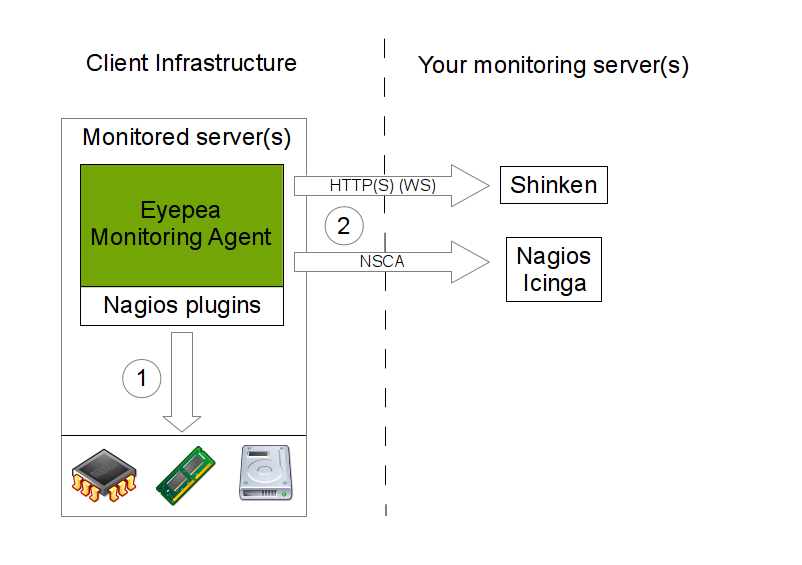
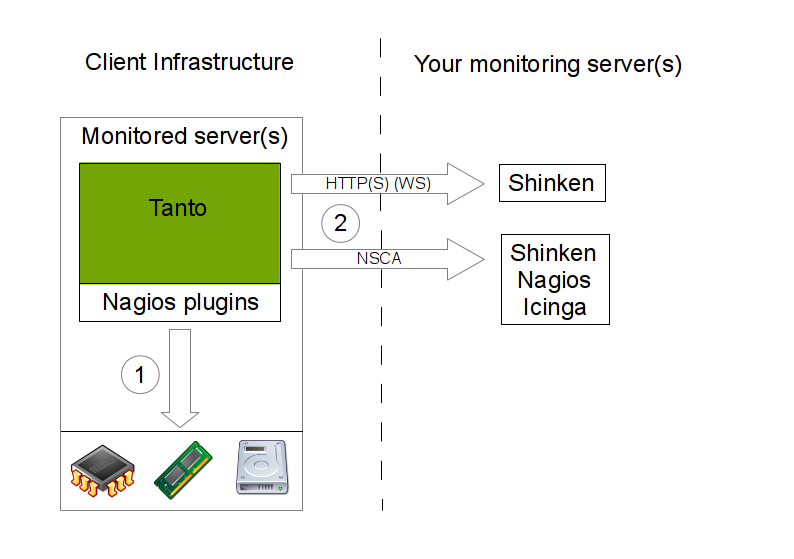
Rename eyepea_monitoring_agent to tanto

diff --git a/setup.py b/setup.py
@@ -4,37 +4,41 @@ __docformat__ = 'rst'
 
 import os
 from setuptools import setup, find_packages
+from sys import version_info
 
 long_description = open(os.path.join(os.path.dirname(__file__), 'README.rst')).read() + '\n\n' + open(os.path.join(os.path.dirname(__file__), 'HISTORY.rst')).read()
 
+install_requires=[
+    'configobj>=4.7.2',
+    'pynsca>=1.2',
+    'requests>=0.10.1',
+],
+# Python 2.6 and below requires argparse
+if version_info[:2] < (2, 7):
+    install_requires += ['argparse>=1.1']
+
 setup(
-    name='eyepea-monitoring-agent',
-    version='0.9',
+    name='tanto',
+    version='1.0',
     description='Takes monitoring data from Nagios-plugins to push with NSCA (Nagios or Icinga) or WS-Shinken.',
     long_description=long_description,
     author='Ludovic Gasc',
     author_email='ludovic.gasc@eyepea.eu',
-    url='https://github.com/Eyepea/eyepea_monitoring_agent',
+    url='https://github.com/Eyepea/tanto',
     packages=find_packages(),
-    scripts=['eyepea_monitoring_agent'],
+    scripts=['tanto'],
     include_package_data=True,
     zip_safe=False,
     platforms='UNIX',
     package_data={'monitoring_agent': ['configspecs/*.cfg']},
-    data_files=[('/etc/eyepea_monitoring_agent', ['etc/logging.ini',
-                                                  'etc/nagios_plugins.cfg',
-                                                  'etc/nsca.cfg',
-                                                  'etc/ws_shinken.cfg']),
-                ('/etc/cron.d', ['etc/cron.d/eyepea_monitoring_agent']),
-                ('/var/run/eyepea_monitoring_agent', ['etc/.placeholder']),
-                ('/var/lib/eyepea_monitoring_agent', ['etc/.placeholder']),],
+    data_files=[('/etc/tanto', ['etc/tanto/logging.ini',
+                                                  'etc/tanto/nagios_plugins.cfg',
+                                                  'etc/tanto/nsca.cfg',
+                                                  'etc/tanto/ws_shinken.cfg']),
+                ('/etc/cron.d', ['etc/cron.d/tanto']),
+                ('/var/lib/tanto', ['etc/.placeholder']),],
     license='GNU Affero General Public License v3',
-    install_requires=[
-        'argparse>=1.1',
-        'configobj>=4.7.2',
-        'pynsca>=1.2',
-        'requests>=0.10.1',
-    ],
+    install_requires=install_requires,
     classifiers=[
         'Development Status :: 5 - Production/Stable',
         'Environment :: Console',

diff --git a/README.rst b/README.rst
@@ -1,8 +1,8 @@
-Eyepea monitoring agent
-=======================
+Tanto
+=====
 
-- `Github repository <https://github.com/Eyepea/eyepea_monitoring_agent>`_
-- `PyPI page <http://pypi.python.org/pypi/eyepea-monitoring-agent>`_
+- `Github repository <https://github.com/Eyepea/tanto>`_
+- `PyPI page <http://pypi.python.org/pypi/tanto>`_
 
 Overview
 --------
@@ -10,7 +10,7 @@ Overview
 To monitor the servers with Shinken, Nagios or Icinga, system administrators usually configure active checks of the monitored servers.
 It means the monitoring system must have a direct network access to the monitored server.
 
-With **Eyepea monitoring agent**, this model is reverted, it does passive checks of your monitored servers.
+With **Tanto**, this model is reverted, it does passive checks of your monitored servers.
 You don't need to open an access from your monitoring system to the monitored servers.
 
 The main use case of this tool is to monitor distant servers in a complex network where you can't connect directly for security reasons, typically with a large client.
@@ -36,24 +36,23 @@ The behaviour of this tool is simple:
 How to install ?
 ----------------
 
-Debian packages is the prefered method.
+You install as you wish, via sources, pip or Debian package.
 If you use another distribution, you can use the Python package or contribute to publish a package for your distribution.
 
 Debian
 ``````
 
-We are working to propose clean Debian packages, a first version exists in the **debian/** folder.
+We provide a Debian package source in the **debian/** folder.
 
 Python package
 ``````````````
 
-**Warning:** Root rights are necessary to install config files and cron file.
-pip install eyepea-monitoring-agent
+pip install tanto
 
 Usage
 -----
 
-- Default config files location: **/etc/eyepea_monitoring_agent/**
+- Default config files location: **/etc/tanto/**
 - Default cron file location: **/etc/cron.d/**
 
 #. Configure passive checks on your monitoring system:
@@ -74,12 +73,12 @@ Usage
 
 #. Fill in the credidentials for your monitoring system in **nsca.cfg** or **ws_shinken.cfg**.
 
-#. Adapt the checks frequency in: **/etc/cron.d/eyepea_monitoring_agent**.
+#. Adapt the checks frequency in: **/etc/cron.d/tanto**.
 
 CLI options
 -----------
 
-Launch: **eyepea_monitoring_agent --help**
+Launch: **tanto --help**
 You can override the location of each config file with a CLI parameter.
 
 Debug
@@ -91,7 +90,7 @@ You can customize this behaviour in **logging.ini**: http://docs.python.org/libr
 Support
 -------
 
-Community support is provided via Github: https://github.com/Eyepea/eyepea_monitoring_agent/issues
+Community support is provided via Github: https://github.com/Eyepea/tanto/issues
 
 You must provide the error log with your issue.
 

diff --git a/HISTORY.rst b/HISTORY.rst
@@ -9,6 +9,7 @@ Release History
 - Change **nagios_plugins.cfg** syntax to give directly the command line to launch.
 - Add **servers** list parameter in **nagios_plugins.cfg** to define the servers list that must receive configuration.
 - Logging improvements
+- Rename **eyepea_monitoring_agent** to **Tanto**, a short blade in the same family as **Shinken**.
 
 0.9 (2012-08-14)
 ++++++++++++++++
